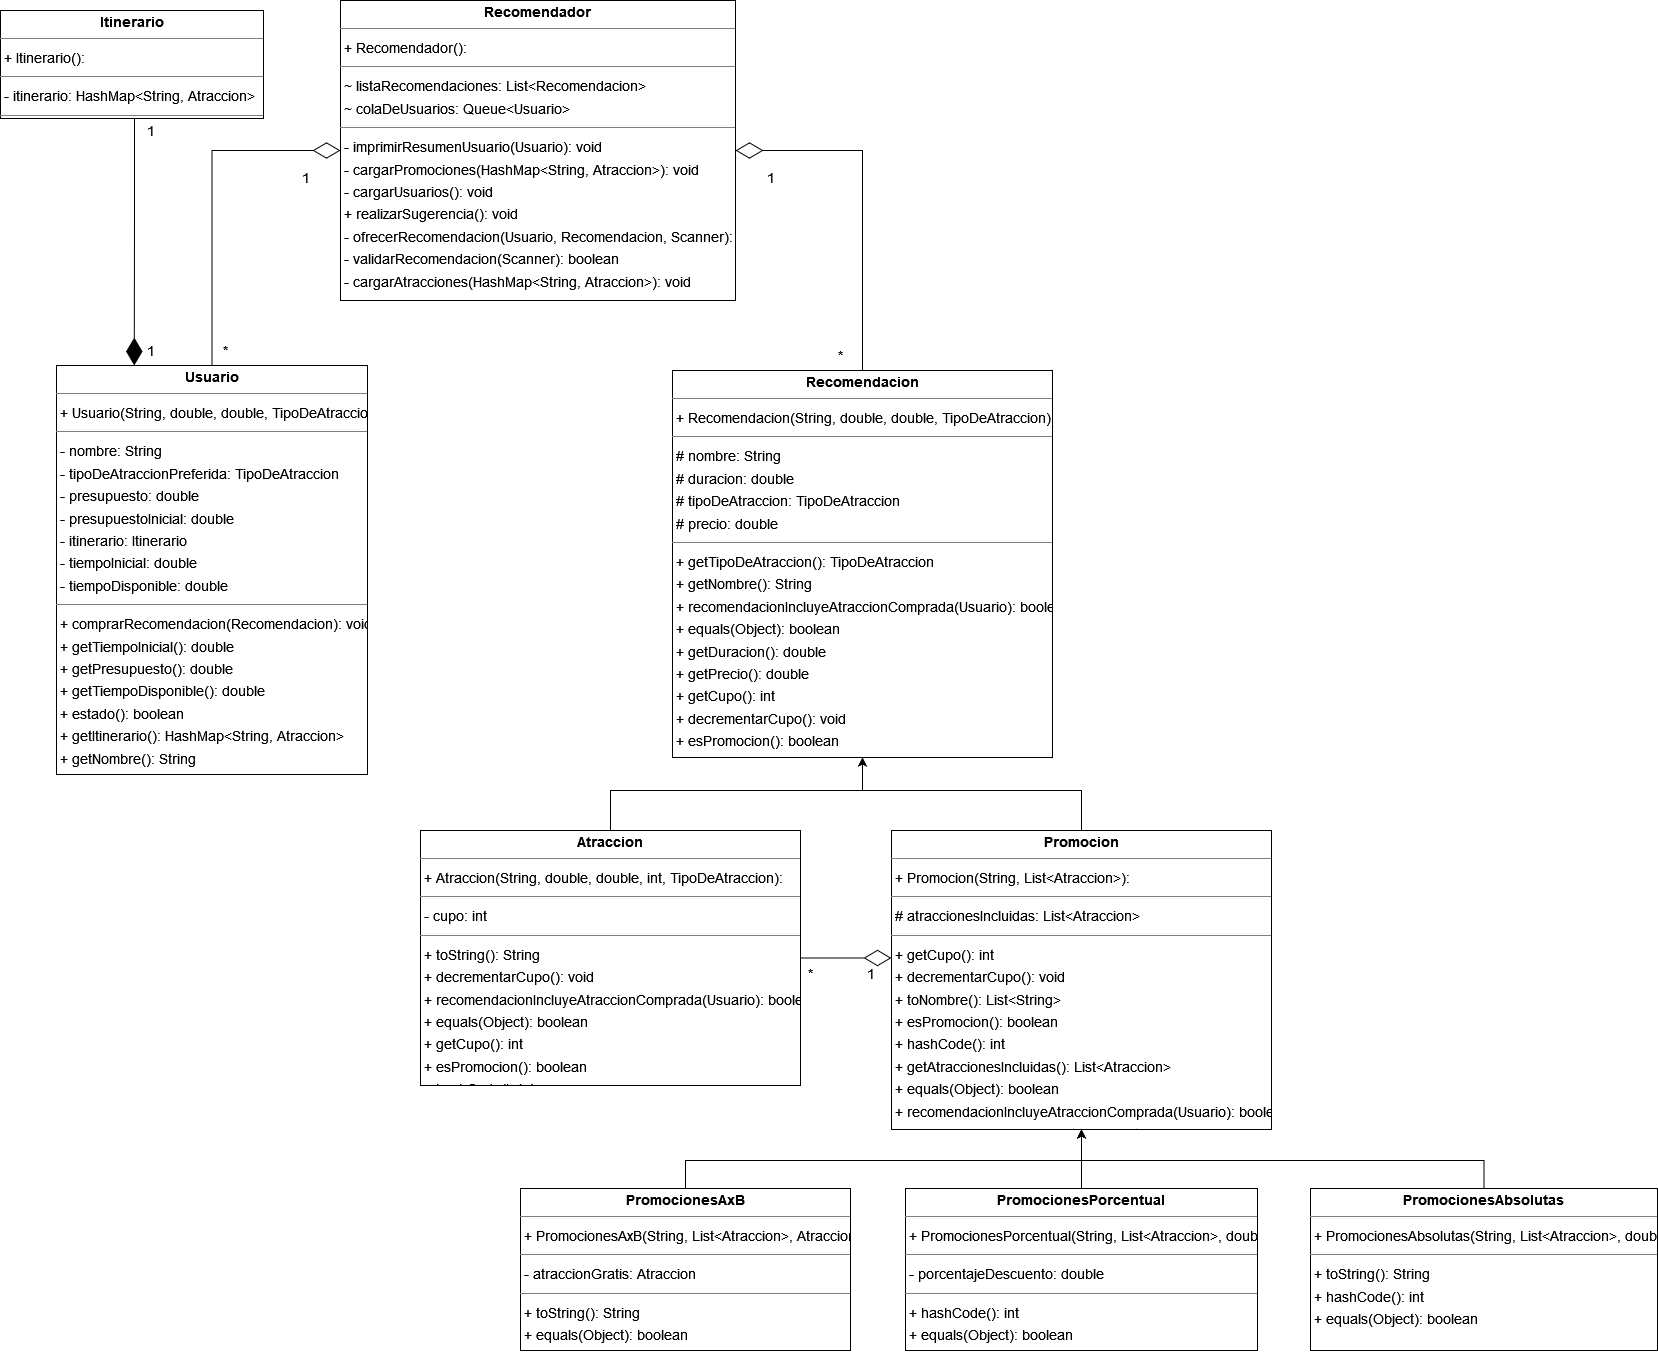
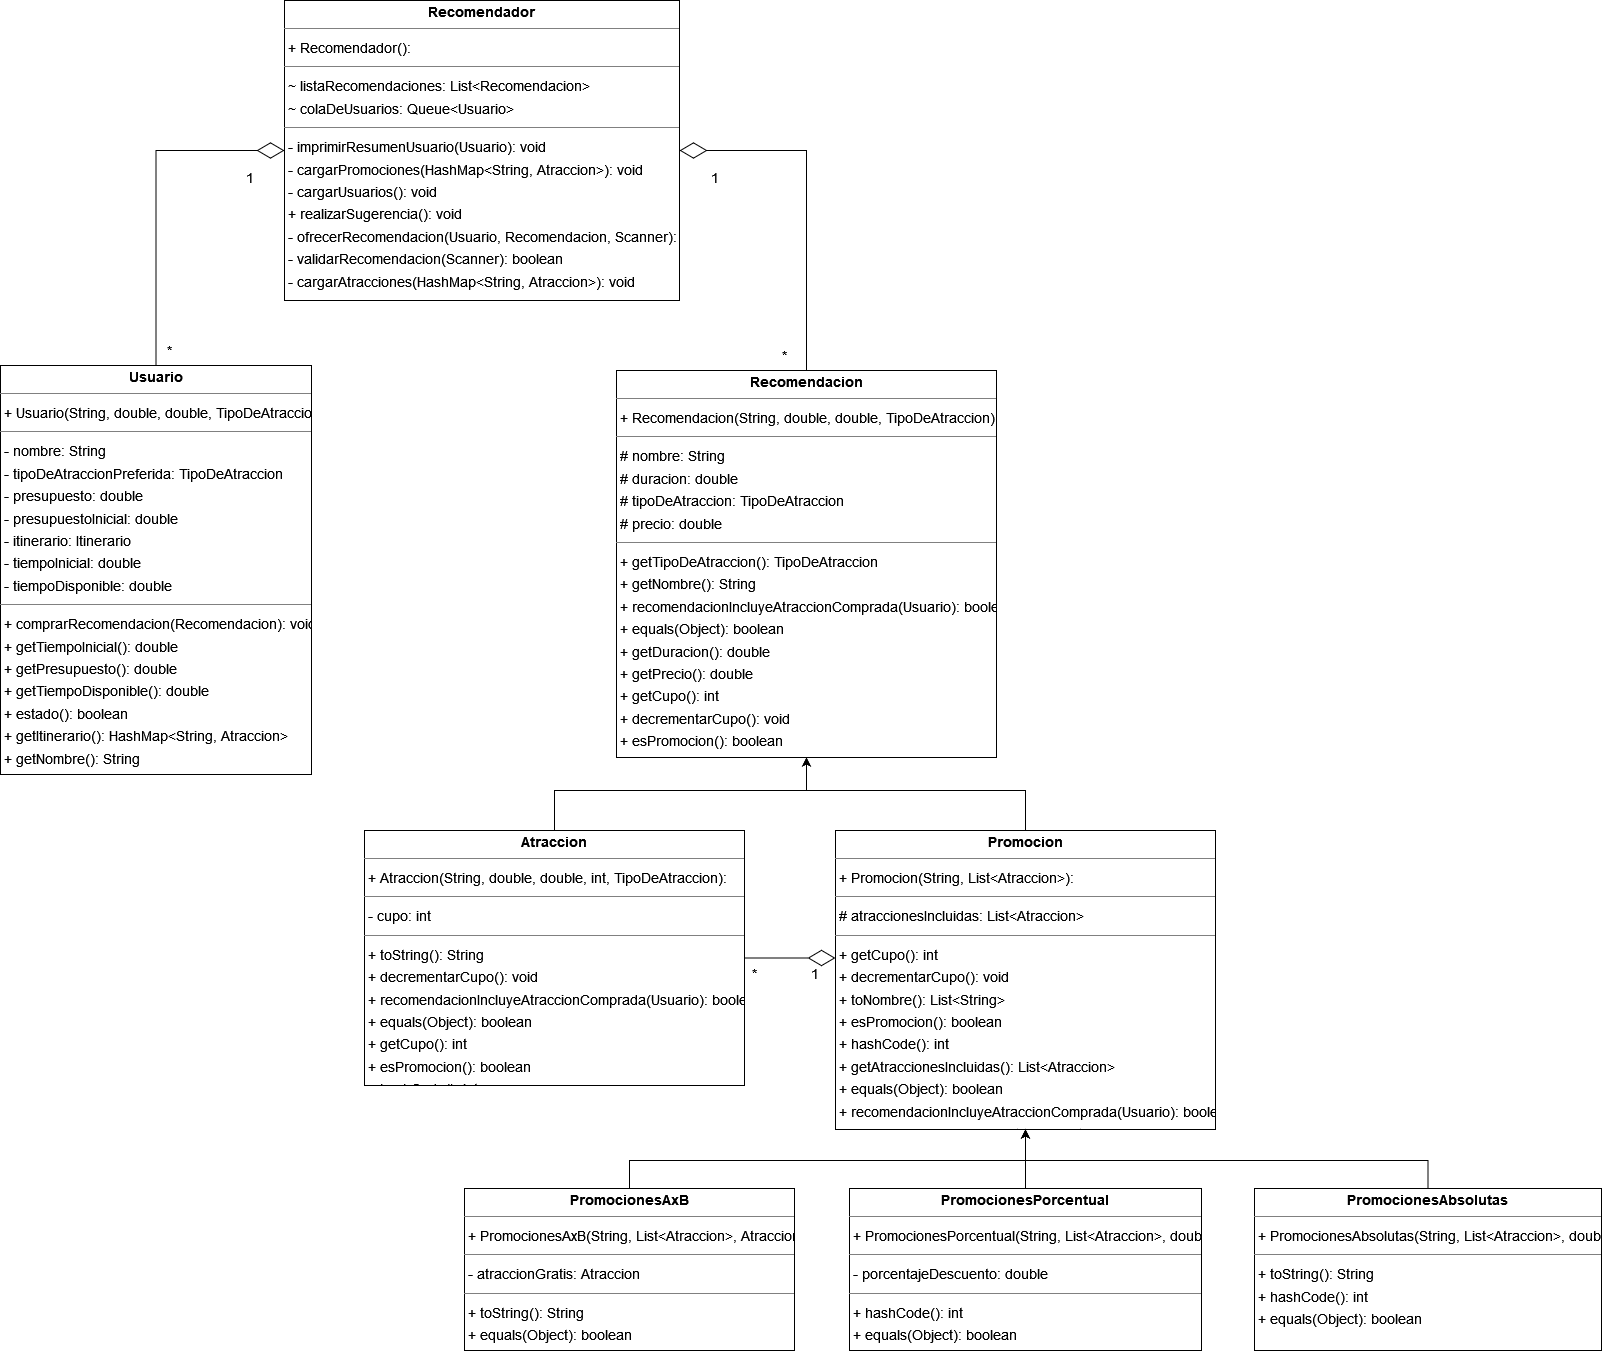
Eliminada clase itinerario

diff --git a/Tierra_Media_/tests/Clases/AtraccionTest.java b/Tierra_Media_/tests/Clases/AtraccionTest.java
@@ -13,11 +13,11 @@ public class AtraccionTest {
 	public void agregaBienRecomendacionAItinierario() {
 		Atraccion atraccion = new Atraccion("Moria", 10, 2, 6, TipoDeAtraccion.AVENTURA);
 
-		Itinerario itinerario = new Itinerario();
+		Usuario usuario = new Usuario("Frodo", 10, 20, TipoDeAtraccion.AVENTURA);
 
-		atraccion.agregarRecomendacionAItinierario(itinerario);
+		atraccion.agregarRecomendacionAItinierario(usuario);
 
-		Assert.assertTrue(itinerario.getItinerario().containsKey(atraccion.getNombre()));
+		Assert.assertTrue(usuario.getItinerario().containsKey(atraccion.getNombre()));
 	}
 
 	@Test
@@ -30,13 +30,13 @@ public class AtraccionTest {
 
 		Promocion promocion = new Promocion("Pack Test", atracciones);
 
-		Itinerario itinerario = new Itinerario();
+		Usuario usuario = new Usuario("Sam", 35, 10, TipoDeAtraccion.PAISAJES);
 
-		promocion.agregarRecomendacionAItinierario(itinerario);
+		promocion.agregarRecomendacionAItinierario(usuario);
 
-		Assert.assertTrue(itinerario.getItinerario().containsKey("Minas Tirith"));
-		Assert.assertTrue(itinerario.getItinerario().containsKey("Abismo de Helm"));
-		Assert.assertTrue(itinerario.getItinerario().containsKey("Erebor"));
+		Assert.assertTrue(usuario.getItinerario().containsKey("Minas Tirith"));
+		Assert.assertTrue(usuario.getItinerario().containsKey("Abismo de Helm"));
+		Assert.assertTrue(usuario.getItinerario().containsKey("Erebor"));
 
 	}
 }

diff --git a/Tierra_Media_/src/Clases/Usuario.java b/Tierra_Media_/src/Clases/Usuario.java
@@ -7,7 +7,7 @@ public class Usuario {
 	private double presupuesto;
 	private double tiempoDisponible;
 	private TipoDeAtraccion tipoDeAtraccionPreferida;
-	private Itinerario itinerario;
+	private HashMap<String, Atraccion> itinerario;
 	private final double presupuestoInicial;
 	private final double tiempoInicial;
 
@@ -18,7 +18,7 @@ public class Usuario {
 		this.presupuesto = presupuesto;
 		this.tiempoDisponible = tiempoDisponible;
 		this.tipoDeAtraccionPreferida = tipoDeAtraccionPreferida;
-		this.itinerario = new Itinerario();
+		this.itinerario = new HashMap<String, Atraccion>();
 		this.presupuestoInicial = presupuesto;
 		this.tiempoInicial = tiempoDisponible;
 	}
@@ -49,7 +49,7 @@ public class Usuario {
 	}
 
 	public HashMap<String, Atraccion> getItinerario() {
-		return this.itinerario.getItinerario();
+		return this.itinerario;
 	}
 
 	// -- Métodos --
@@ -58,7 +58,7 @@ public class Usuario {
 	}
 
 	public void comprarRecomendacion(Recomendacion recomendacion) {
-		recomendacion.agregarRecomendacionAItinierario(this.itinerario);
+		recomendacion.agregarRecomendacionAItinierario(this);
 		this.presupuesto -= recomendacion.getPrecio();
 		this.tiempoDisponible -= recomendacion.getDuracion();
 		recomendacion.decrementarCupo();

diff --git a/Tierra_Media_/tests/Clases/PromocionTest.java b/Tierra_Media_/tests/Clases/PromocionTest.java
@@ -101,7 +101,7 @@ public class PromocionTest {
 
 	@Test
 	public void agregaRecomendacionesBien() {
-		Itinerario itinerario = new Itinerario();
+		Usuario usuario = new Usuario("Bilbo", 100, 8, TipoDeAtraccion.AVENTURA);
 
 		List<Atraccion> atracciones = new LinkedList<Atraccion>();
 		atracciones.add(new Atraccion("Comarca", 10, 3, 20, TipoDeAtraccion.DEGUSTACION));
@@ -115,10 +115,10 @@ public class PromocionTest {
 
 		Promocion promocion = new Promocion("Pack Degustación", atracciones);
 
-		promocion.agregarRecomendacionAItinierario(itinerario);
+		promocion.agregarRecomendacionAItinierario(usuario);
 
 		for (Atraccion atraccion : promocion.atraccionesIncluidas) {
-			assertTrue(itinerario.getItinerario().containsValue(atraccion));
+			assertTrue(usuario.getItinerario().containsValue(atraccion));
 		}
 
 	}

diff --git a/Tierra_Media_/src/Clases/Promocion.java b/Tierra_Media_/src/Clases/Promocion.java
@@ -63,9 +63,9 @@ public class Promocion extends Recomendacion {
 	}
 
 	@Override
-	public void agregarRecomendacionAItinierario(Itinerario itinerario) {
+	public void agregarRecomendacionAItinierario(Usuario usuario) {
 		for (Atraccion atraccion : this.atraccionesIncluidas) {
-			atraccion.agregarRecomendacionAItinierario(itinerario);
+			atraccion.agregarRecomendacionAItinierario(usuario);
 		}
 	}
 

diff --git a/Tierra_Media_/src/Clases/Atraccion.java b/Tierra_Media_/src/Clases/Atraccion.java
@@ -37,8 +37,8 @@ public class Atraccion extends Recomendacion {
 	}
 
 	@Override
-	public void agregarRecomendacionAItinierario(Itinerario itinerario) {
-		itinerario.getItinerario().put(this.nombre, this);
+	public void agregarRecomendacionAItinierario(Usuario usuario) {
+		usuario.getItinerario().put(this.nombre, this);
 	}
 
 	@Override

diff --git a/Tierra_Media_/src/Clases/Recomendacion.java b/Tierra_Media_/src/Clases/Recomendacion.java
@@ -37,7 +37,7 @@ public abstract class Recomendacion {
 
 	public abstract boolean esPromocion();
 
-	public abstract void agregarRecomendacionAItinierario(Itinerario itinerario);
+	public abstract void agregarRecomendacionAItinierario(Usuario Usuario);
 
 	public abstract boolean recomendacionIncluyeAtraccionComprada(Usuario usuario);
 
